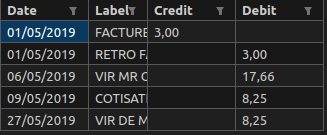
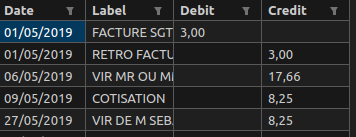
reverse debit/credit

diff --git a/cm2csv.py b/cm2csv.py
@@ -76,7 +76,7 @@ def sort_by_date(p_data):
 def write_csv(p_data, p_csv_path):
     with open(p_csv_path, "w", newline="") as f:
         writer = csv.writer(f)
-        writer.writerow(["date", "label", "credit", "debit"])  # Write header
+        writer.writerow(["Date", "Label", "Debit", "Credit"])  # Write header
         for row in p_data:
             writer.writerow(row)
 
